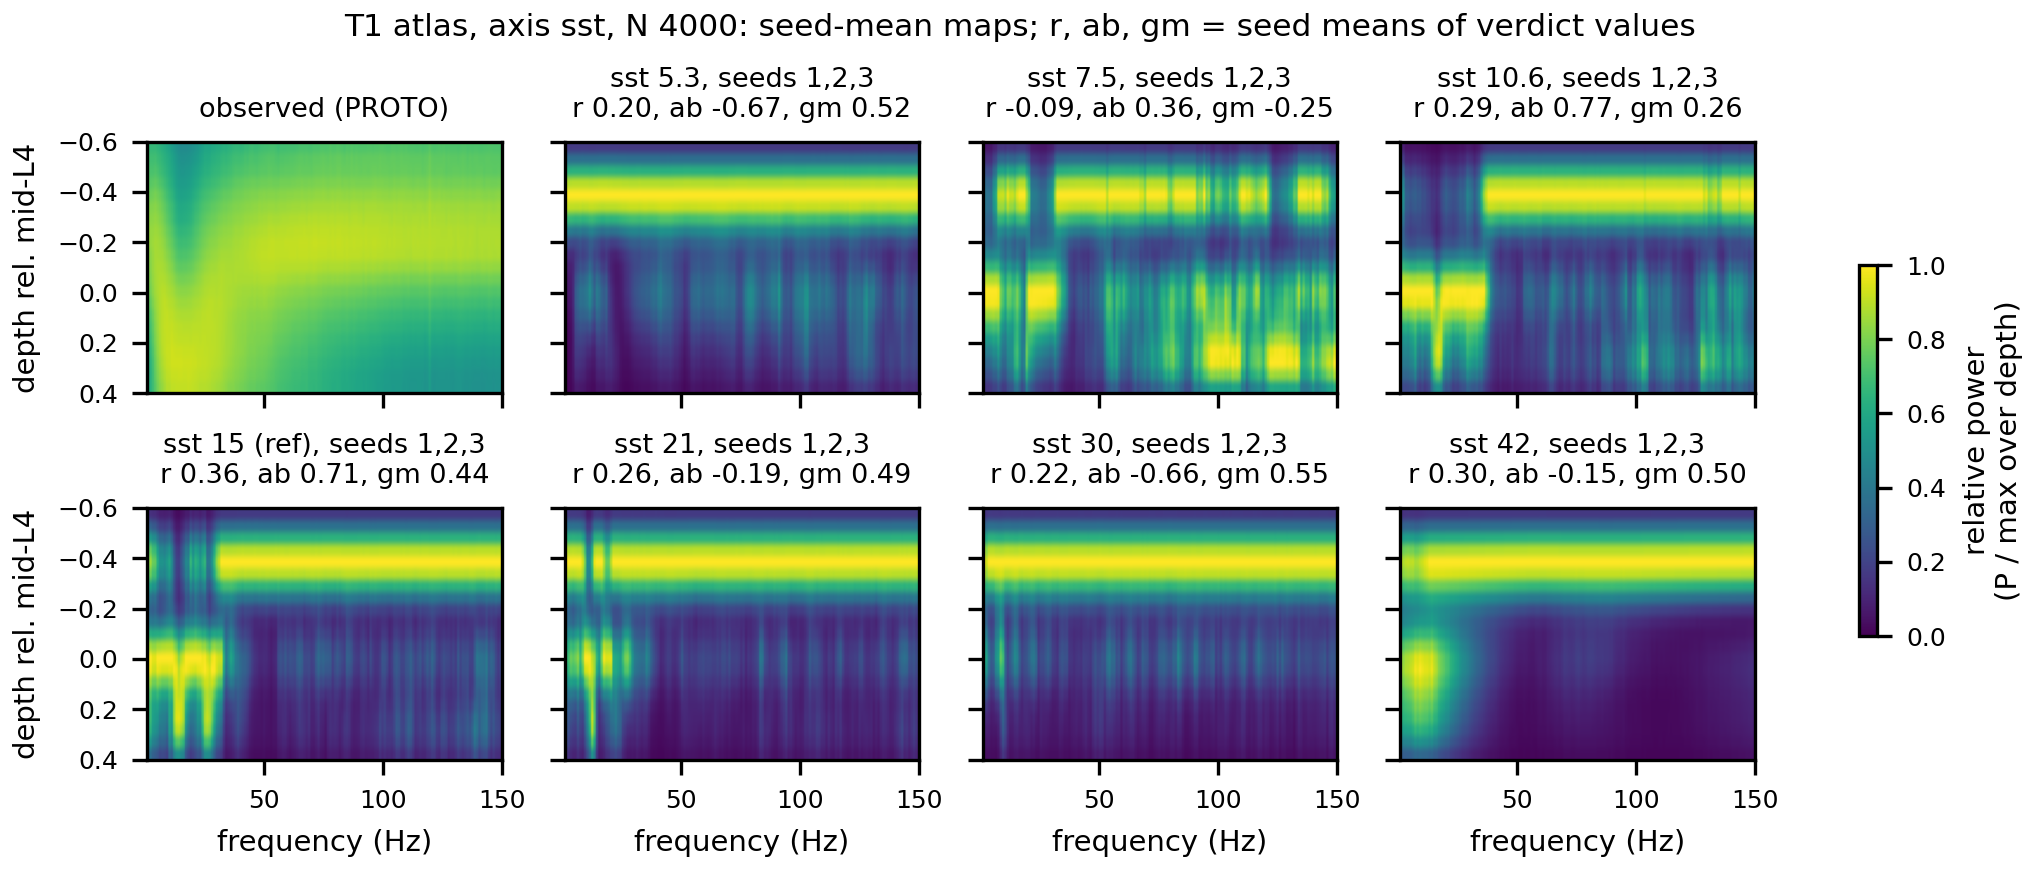
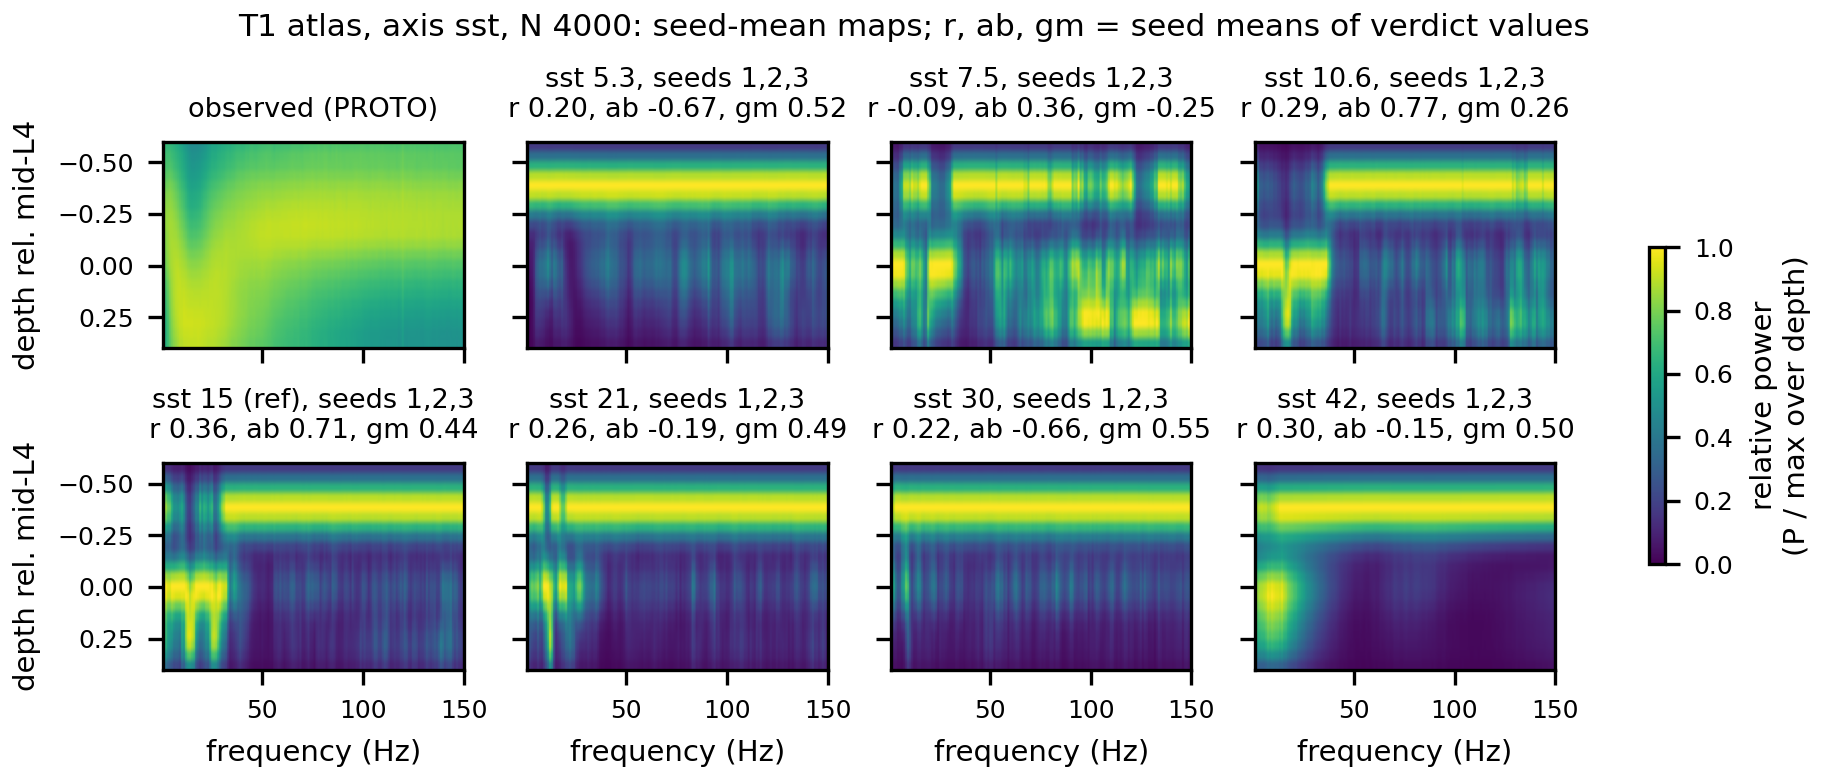
T1 atlases: correct the earlier claim that no generator exists, and redraw all three at their printed width
The open item said no generator for V3_{kd,sst,sstd}_n4000_atlas.png existed in the repo. That was wrong: scripts/e2_t1_atlas.py writes exactly those three files and had been untouched. Verified by running it (identical output paths, deterministic content: the kd ladder maps with their recorded seed-mean r, ab, gm).

The real defect was the canvas: 6.8 in drawn, printed at 0.90 linewidth = 6.09 in, scale 0.896, so the 6.5 pt titles made 5.8 pt and the 6 pt ticks 5.4 pt. The canvas is now 6.092 x 2.6 in, the width it prints at, so every declared size is the printed size (6.50 / 6.00 pt). Content and ordering unchanged.

Build: 35 pages, 0 errors, 0 overfull, 0 float-too-large, 0 undefined. D6 re-hashed and re-verified, 169/169.

diff --git a/scripts/e2_t1_atlas.py b/scripts/e2_t1_atlas.py
@@ -49,7 +49,9 @@ def main(axis: str, n: int, out: Path = OUT) -> Path:
     levels = sel.LEVELS[axis]
     plt.rcParams.update({"font.size": 7, "axes.labelsize": 7, "xtick.labelsize": 6, "ytick.labelsize": 6})
     # drawn at print size (full text width, 6.8 in) so 6-7 pt text stays 6-7 pt in the paper
-    fig, axes = plt.subplots(2, 4, figsize=(6.8, 2.9), sharex=True, sharey=True, constrained_layout=True)
+    fig, axes = plt.subplots(2, 4, figsize=(6.092, 2.6), sharex=True, sharey=True, constrained_layout=True)
+    # 6.092 in = 0.90 x the 6.7677 in text width, which is the width this figure prints at, so the declared
+    # point sizes are the printed ones (at the old 6.8 in canvas the scale was 0.896 and 6.5 pt titles made 5.8 pt)
     ext = [float(sc.F[0]), float(sc.F[-1]), float(mf.CHANNELS[-1]), float(mf.CHANNELS[0])]
     panels = [("observed (PROTO)", sc.PROTO)]
     for lv in levels:
